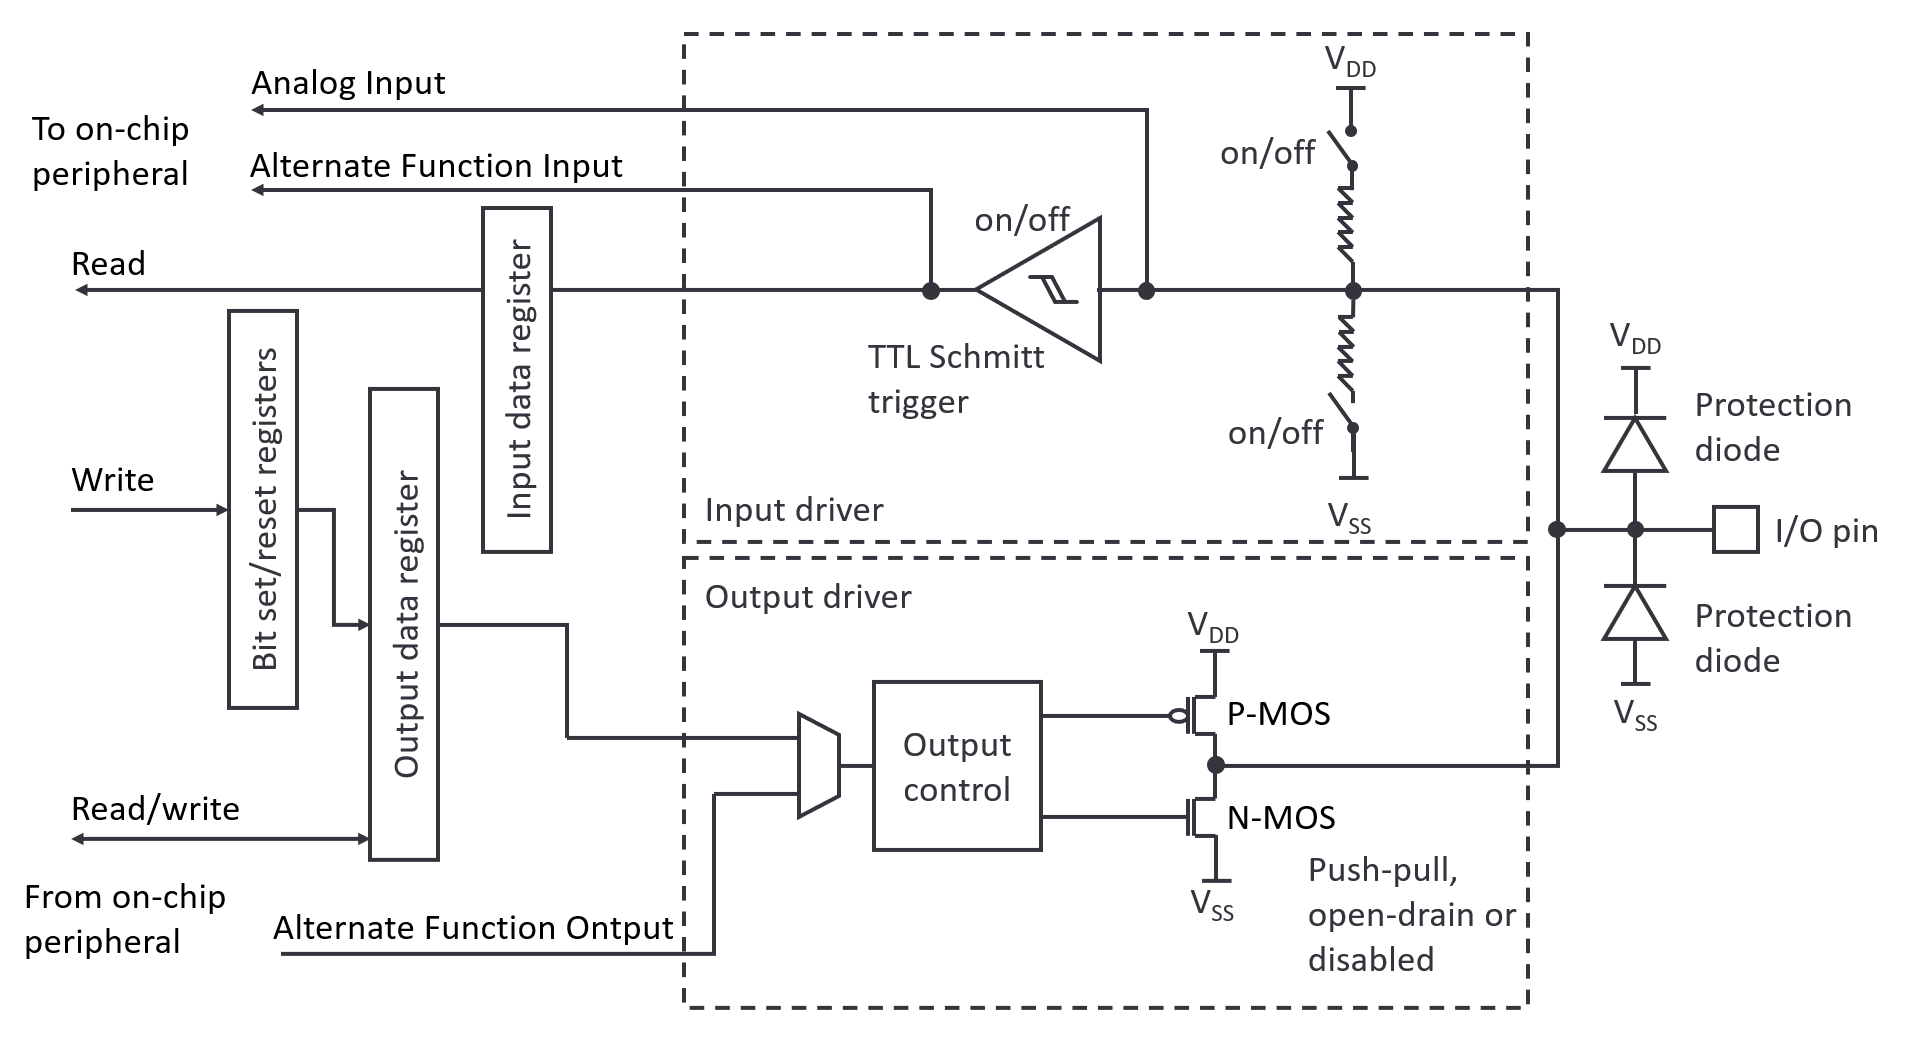
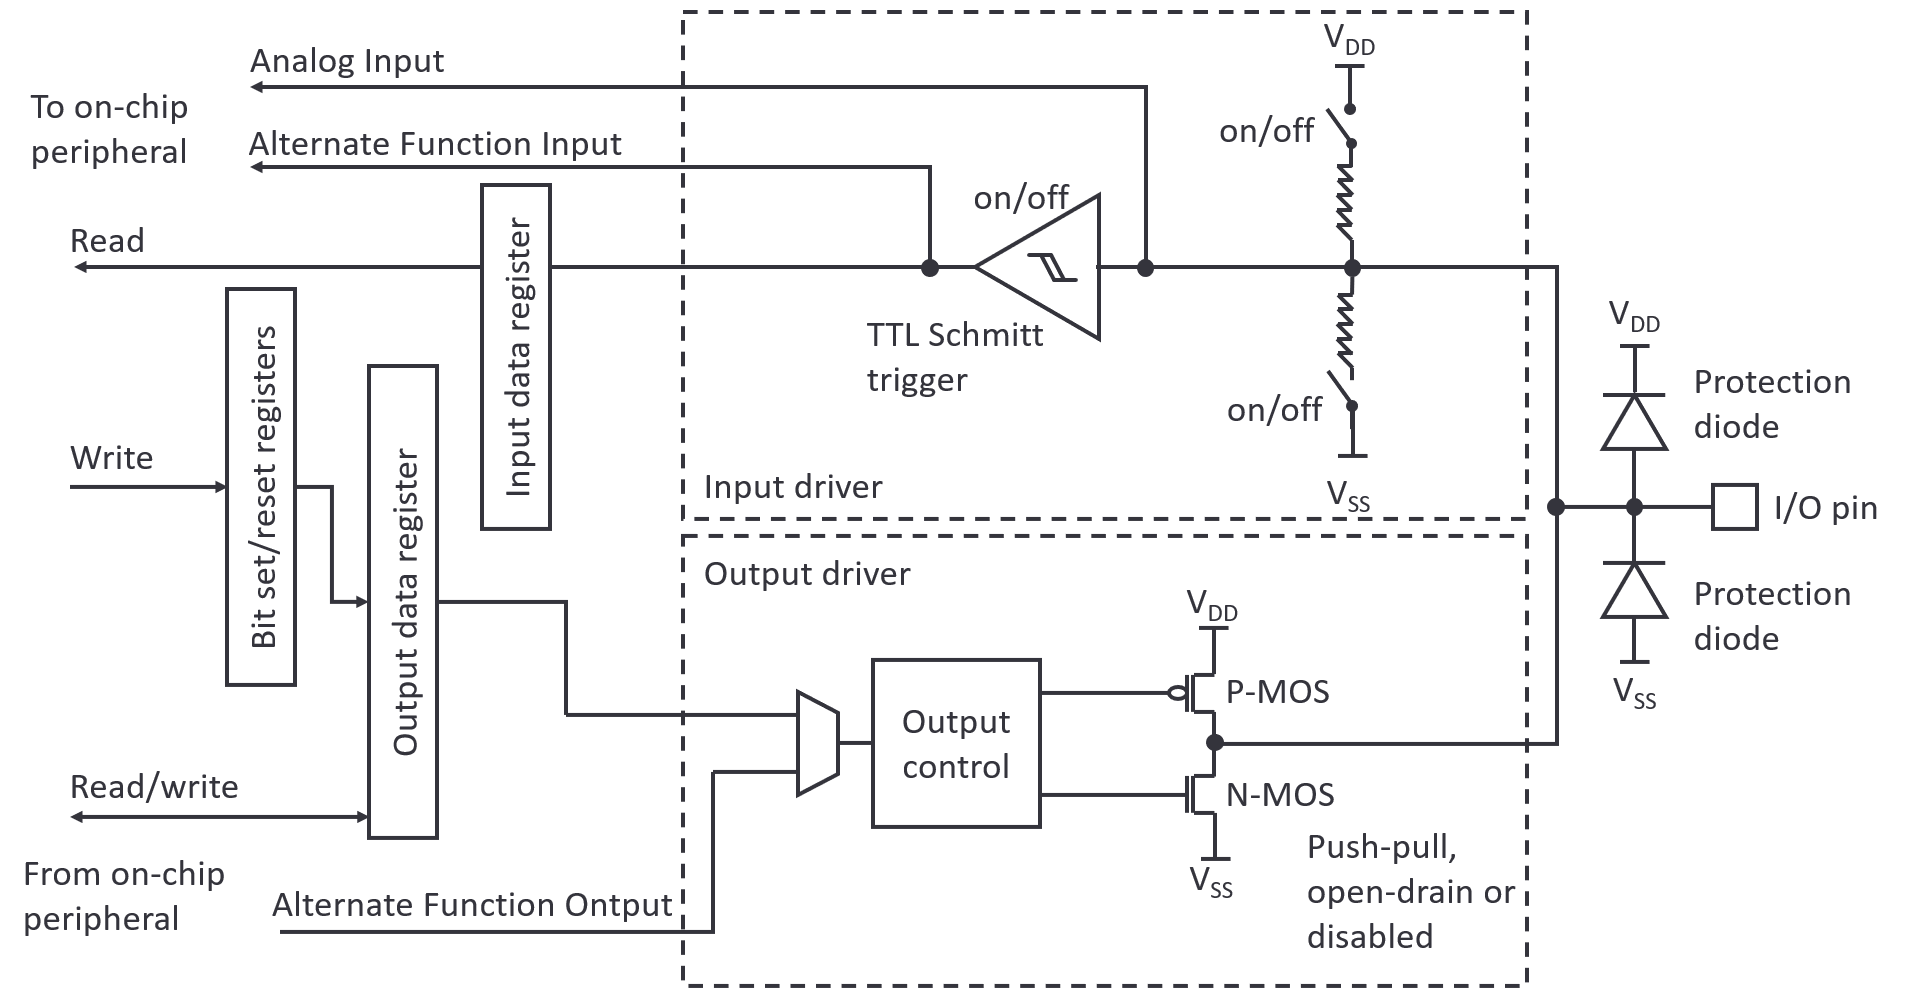
chore: GPIO 8

diff --git a/_posts/2025-10-11-GPIO的8大模式.md b/_posts/2025-10-11-GPIO的8大模式.md
@@ -4,7 +4,7 @@ data: 2025-10-11 11:10:00 +0800
 category: 软件
 tag: [嵌入式, STM32, GPIO]
 description: GPIO 的 8 大模式。
-image: ../assets/img-md/GPIO的8大模式/1-GPIO-light.png
+image: ../assets/img-md/GPIO的8大模式/1-GPIO-color.png
 ---
 
 ## 1. 保护二极管（Production diode）
@@ -184,8 +184,8 @@ image: ../assets/img-md/GPIO的8大模式/1-GPIO-light.png
 
 ## 8. 开漏复用输出
 
-![](../assets/img-md/GPIO的8大模式/7-开漏复用-light.png){ .light}
-![](../assets/img-md/GPIO的8大模式/7-开漏复用-dark.png){ .dark}
+![](../assets/img-md/GPIO的8大模式/7-开漏复用-light.png){: .light}
+![](../assets/img-md/GPIO的8大模式/7-开漏复用-dark.png){: .dark}
 
 - **信号来源**：同样来自**片上外设**。
 - **输出结构**：与标准开漏输出完全相同，**只有下拉的N-MOS，没有上拉的P-MOS**。
@@ -316,7 +316,7 @@ image: ../assets/img-md/GPIO的8大模式/1-GPIO-light.png
 **简单说：外部不干预，内部电阻把引脚“默认”拉低，读到的就是0。**
 
 
-### 11.2 *重力开关**
+### 11.2 **重力开关**
 
 延续之前的比喻，您可以把下拉输入模式想象成一个**带有重力的按钮**：
 
